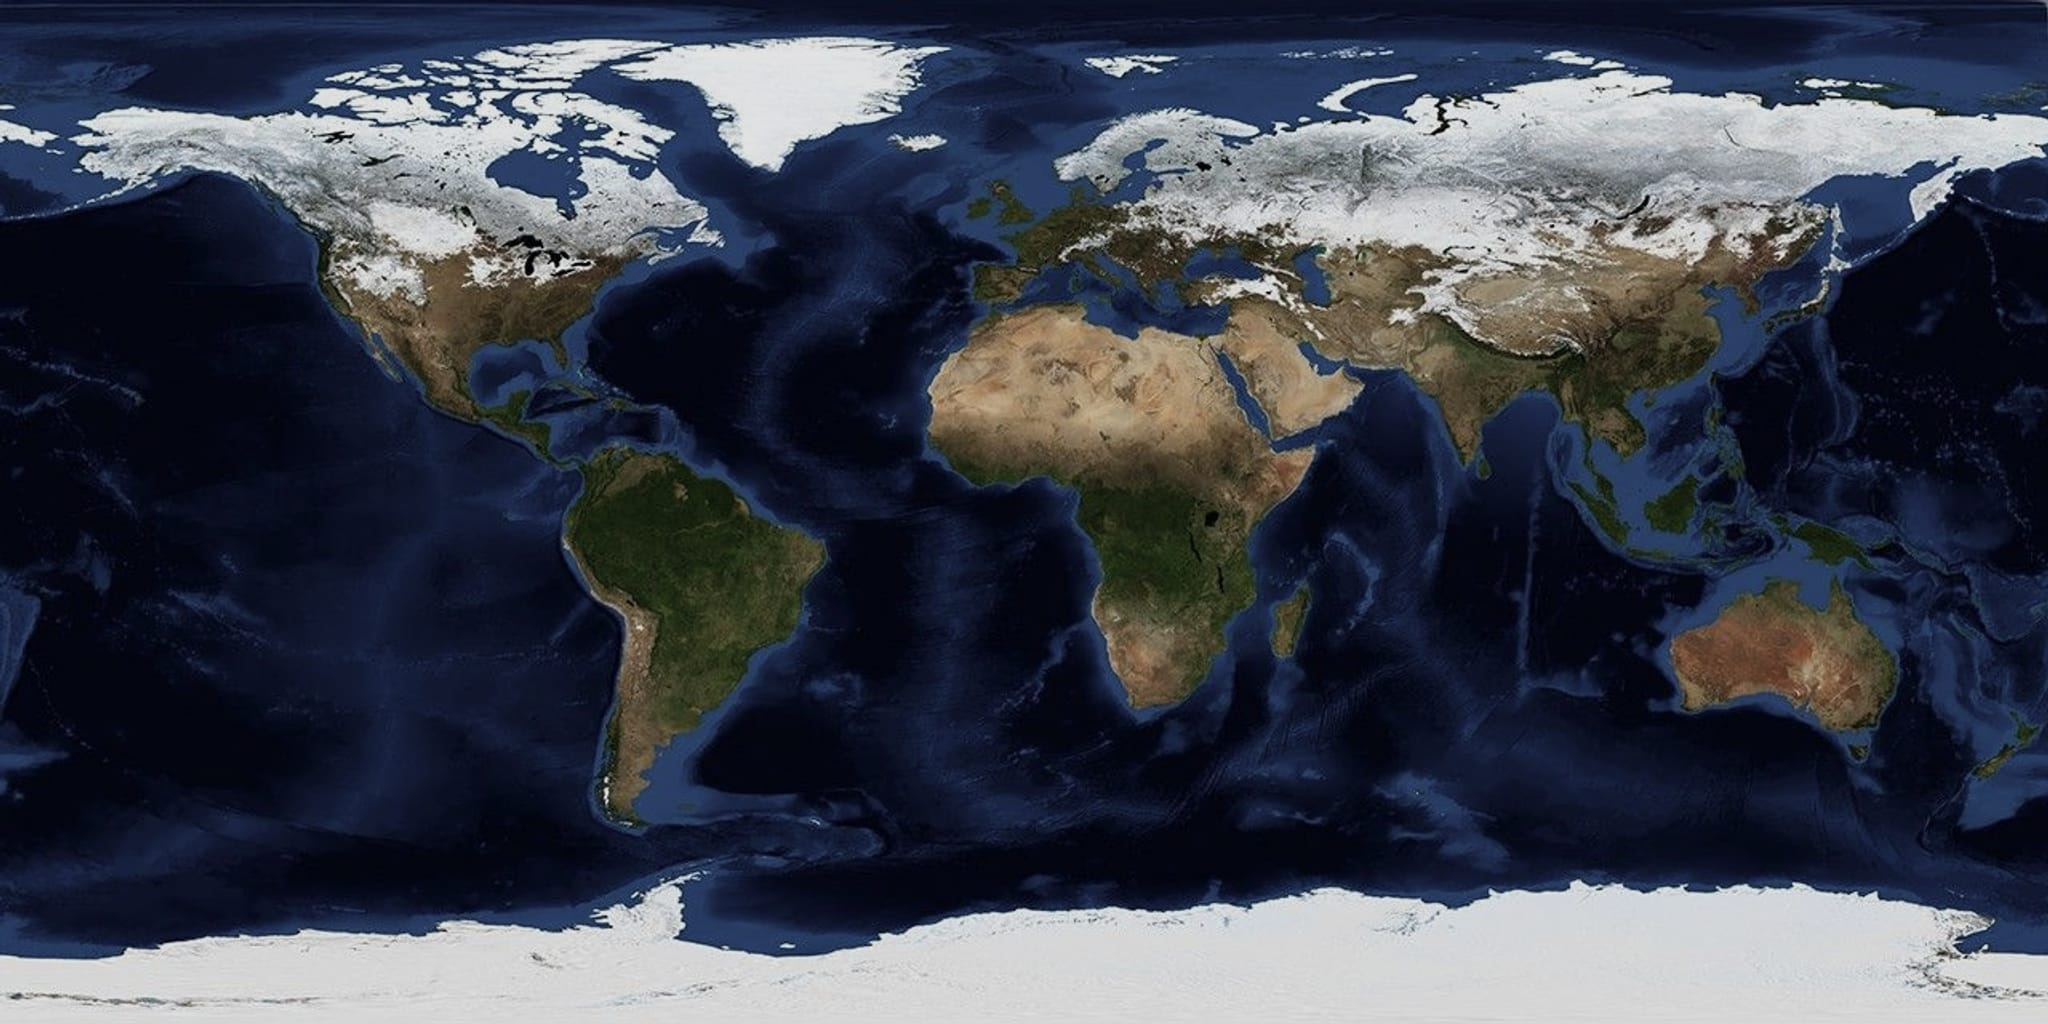
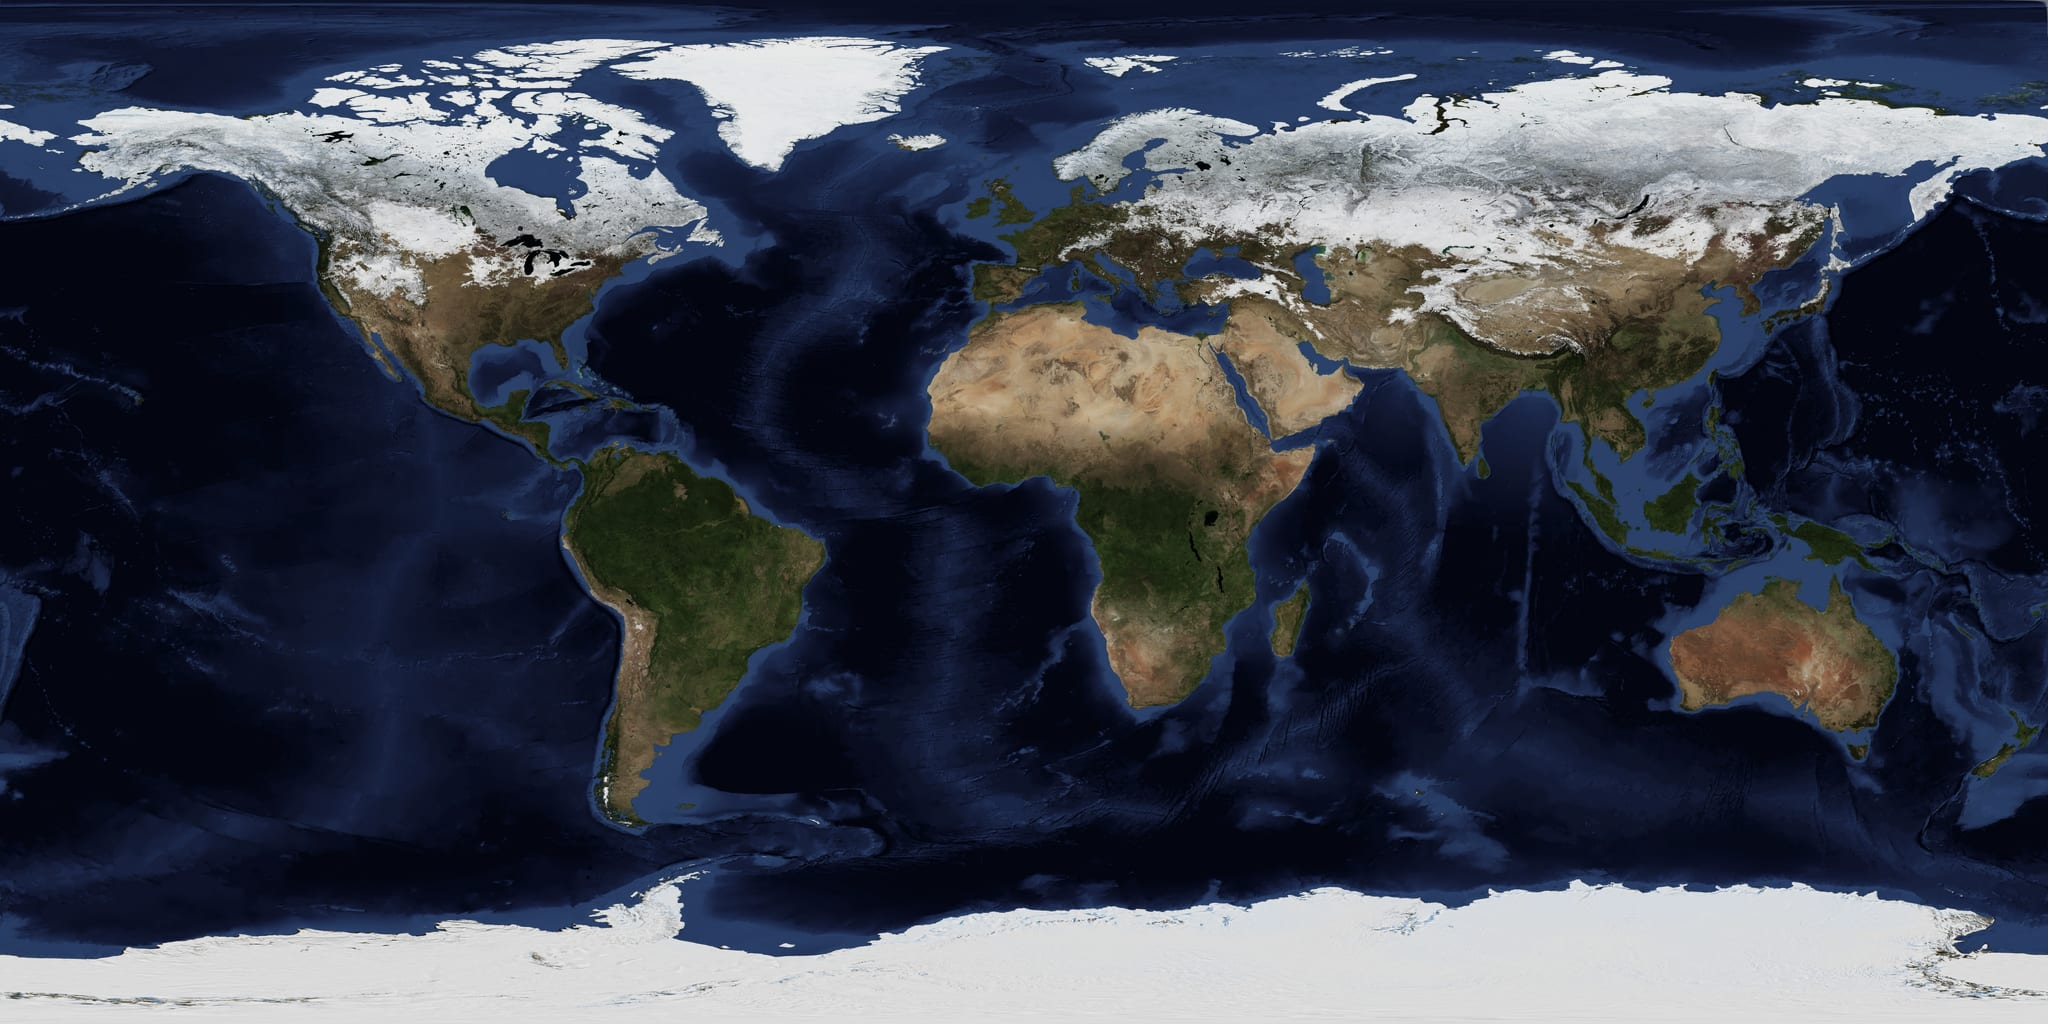
The dark weekend: pinned scroll clock from Friday's close to the bell over the real Earth (NASA Blue/Black Marble, true terminator from the Sun's position, New York marked), sourced captions, NVDAB consensus and sealed forecasts drawn to now

diff --git a/apps/web/src/sections/weekend/DarkWeekend.tsx b/apps/web/src/sections/weekend/DarkWeekend.tsx
@@ -1,3 +1,225 @@
+import { useGSAP } from "@gsap/react";
+import gsap from "gsap";
+import { ScrollTrigger } from "gsap/ScrollTrigger";
+import { AnimatePresence, motion, useReducedMotion } from "motion/react";
+import { Suspense, lazy, useEffect, useMemo, useRef, useState } from "react";
+import { lastRegularClose, nextRegularOpen, sessionAt } from "@ns/calendar";
+import { useNow } from "@/hooks/useNow";
+import { usd } from "@/lib/format";
+import { useHistory } from "@/lib/queries";
+import { ringBell, tick } from "@/lib/sound";
+
+gsap.registerPlugin(ScrollTrigger, useGSAP);
+
+const Earth = lazy(() => import("./Earth"));
+const LANE = { anchor: "#4A8CF0", echo: "#097C60", nfv: "#D66A98" } as const;
+const etClock = new Intl.DateTimeFormat("en-US", { timeZone: "America/New_York", weekday: "short", hour: "2-digit", minute: "2-digit", hour12: false });
+const utcClock = new Intl.DateTimeFormat("en-GB", { timeZone: "UTC", weekday: "short", hour: "2-digit", minute: "2-digit", hour12: false });
+
+/** Regular-session hours in the 168 h before the bell, from the real market calendar (holiday-aware). */
+function openHoursThisWeek(bell: number) {
+  let q = 0;
+  for (let t = bell - 168 * 3600_000; t < bell; t += 15 * 60_000) if (sessionAt(t) === "regular") q++;
+  return q / 4;
+}
+
+function Captions({ index, openHours, sealed, darkHours }: { index: number; openHours: number; sealed: number; darkHours: number }) {
+  const items = [
+    {
+      h: `The real market sets a price ${openHours} hours a week.`,
+      p: `Tokenized stocks trade all 168. From Friday's close to Monday's bell is ${darkHours} hours with no reference price at all.`,
+    },
+    {
+      h: "And that's when people trade.",
+      p: (
+        <>
+          62% of bStocks' July volume happened while US markets were dark (
+          <a className="underline underline-offset-4 hover:text-moon-0" href="https://cryptobriefing.com/binance-bstocks-volume-us-market-closures/" target="_blank" rel="noreferrer">
+            Crypto Briefing, Aug 26 2026
+          </a>
+          ).
+        </>
+      ),
+    },
+    {
+      h: "The oracles go quiet.",
+      p: (
+        <>
+          “These feeds do not publish updates, including heartbeat updates, while markets are closed.” (
+          <a className="underline underline-offset-4 hover:text-moon-0" href="https://docs.chain.link/data-feeds/tokenized-equity-feeds" target="_blank" rel="noreferrer">
+            Chainlink docs
+          </a>
+          ). Lenders see Friday's close all weekend.
+        </>
+      ),
+    },
+    {
+      h: "The night shift doesn't.",
+      p: `Every 30 minutes, three agents seal their forecast of Monday's open on BNB Chain. ${sealed ? `${sealed} forecasts are sealed for this bell so far.` : ""}`,
+    },
+  ];
+  const it = items[Math.min(index, items.length - 1)]!;
+  return (
+    <div className="relative min-h-[11rem]" aria-live="polite">
+      <AnimatePresence mode="wait">
+        <motion.div key={index} initial={{ opacity: 0, y: 14, filter: "blur(6px)" }} animate={{ opacity: 1, y: 0, filter: "blur(0px)" }} exit={{ opacity: 0, y: -10, filter: "blur(6px)" }} transition={{ duration: 0.45 }}>
+          <h3 className="text-[clamp(1.9rem,3.2vw,2.9rem)] font-[300] leading-[1.06]">{it.h}</h3>
+          <p className="mt-3 max-w-[46ch] text-[16px] leading-relaxed text-moon-2">{it.p}</p>
+        </motion.div>
+      </AnimatePresence>
+    </div>
+  );
+}
+
 export default function DarkWeekend() {
-  return null;
+  const root = useRef<HTMLElement>(null);
+  const reduce = Boolean(useReducedMotion());
+  const now = useNow();
+  const bell = useMemo(() => nextRegularOpen(now), [Math.floor(now / 60_000)]); // eslint-disable-line react-hooks/exhaustive-deps
+  const close = useMemo(() => lastRegularClose(bell - 60_000), [bell]);
+  const darkHours = Math.round(((bell - close) / 3600_000) * 10) / 10;
+  const openHours = useMemo(() => openHoursThisWeek(bell), [bell]);
+  const { data } = useHistory("NVDAB", Math.ceil((Date.now() - close) / 3600_000) + 2);
+  const pts = useMemo(() => (data ? data.points.filter((p) => p.anchorTime === data.nextAnchor) : []), [data]);
+  const commits = useMemo(() => (data ? data.commits.filter((c) => c.chain === "committed") : []), [data]);
+
+  const timeRef = useRef<number>(reduce ? Date.now() : close);
+  const clip = useRef<SVGRectElement>(null);
+  const [p, setP] = useState(reduce ? (Date.now() - close) / (bell - close) : 0);
+  const [mobile, setMobile] = useState(false);
+  const [inView, setInView] = useState(false);
+  useEffect(() => {
+    const m = window.matchMedia("(max-width: 767px)");
+    const on = () => setMobile(m.matches);
+    on();
+    m.addEventListener("change", on);
+    return () => m.removeEventListener("change", on);
+  }, []);
+
+  const caption = Math.min(3, Math.floor(p * 4.4));
+  const lastCaption = useRef(-1);
+  useEffect(() => {
+    if (lastCaption.current !== -1 && caption !== lastCaption.current) tick();
+    lastCaption.current = caption;
+  }, [caption]);
+  const rang = useRef(false);
+
+  useGSAP(
+    () => {
+      const mm = gsap.matchMedia();
+      mm.add("(prefers-reduced-motion: no-preference)", () => {
+        ScrollTrigger.create({
+          trigger: root.current,
+          start: "top top",
+          end: () => `+=${window.innerHeight * (window.innerWidth < 768 ? 2.6 : 3.6)}`,
+          pin: true,
+          scrub: 0.6,
+          onToggle: (s) => setInView(s.isActive),
+          onUpdate: (s) => {
+            const v = s.progress;
+            timeRef.current = close + v * (bell - close);
+            if (clip.current) clip.current.setAttribute("width", String(Math.max(0, v) * 1000));
+            setP(Math.round(v * 200) / 200);
+            if (v > 0.985 && !rang.current) {
+              rang.current = true;
+              ringBell();
+            }
+            if (v < 0.9) rang.current = false;
+          },
+        });
+      });
+      return () => mm.revert();
+    },
+    { scope: root, dependencies: [close, bell] },
+  );
+
+  const simT = reduce ? Date.now() : close + p * (bell - close);
+  const elapsed = (simT - close) / 3600_000;
+  const atBell = p > 0.985;
+
+  // Strip geometry (viewBox 1000 × 150): x = time from Friday's close to the bell.
+  const X = (t: number) => ((t - close) / (bell - close)) * 1000;
+  const vals = pts.flatMap((q) => [q.lower, q.upper]);
+  const lo = vals.length ? Math.min(...vals) : 0;
+  const hi = vals.length ? Math.max(...vals) : 1;
+  const Y = (v: number) => 8 + (1 - (v - lo) / (hi - lo || 1)) * 84;
+  const step = (sel: (q: (typeof pts)[number]) => number) => pts.map((q, i) => `${i ? "L" : "M"}${X(q.t).toFixed(1)},${Y(sel(q)).toFixed(1)}H${(i < pts.length - 1 ? X(pts[i + 1]!.t) : 1000).toFixed(1)}`).join("");
+  const band = pts.length ? `${step((q) => q.upper)}${[...pts].reverse().map((q, i, a) => `L${(i === 0 ? 1000 : X(a[i - 1]!.t)).toFixed(1)},${Y(q.lower).toFixed(1)}L${X(q.t).toFixed(1)},${Y(q.lower).toFixed(1)}`).join("")}Z` : "";
+  const cur = [...pts].reverse().find((q) => q.t <= simT) ?? pts[0];
+  // Real data stops at "now": the band beyond it is the latest forecast held forward, drawn faint and labelled.
+  const nowX = Math.min(1000, Math.max(0, X(Date.now())));
+
+  return (
+    <section ref={root} className="relative h-[100svh] overflow-hidden bg-night-0" aria-labelledby="weekend-title">
+      <div className="absolute inset-0 bg-[radial-gradient(60%_70%_at_70%_45%,rgb(29_40_67/0.6),transparent_70%)]" aria-hidden />
+      <div className={`absolute ${mobile ? "inset-x-0 top-16 h-[46svh]" : "inset-y-0 right-0 w-[64%]"}`} aria-hidden>
+        <Suspense fallback={null}>
+          <Earth timeRef={timeRef} active={reduce ? false : inView} mobile={mobile} />
+        </Suspense>
+      </div>
+      <div className="relative mx-auto flex h-full max-w-[1320px] flex-col justify-between px-4 pb-8 pt-24 sm:px-6 md:pt-28">
+        <div className={mobile ? "mt-[40svh]" : "max-w-[34rem]"}>
+          <p id="weekend-title" className="text-[14px] font-medium text-sodium/90">
+            The dark weekend
+          </p>
+          <div className="mt-3 flex items-baseline gap-4">
+            <time className="font-display text-[clamp(2.6rem,5vw,4.4rem)] font-[300] leading-none text-moon-0">{etClock.format(simT)} ET</time>
+          </div>
+          <p className="num mt-2 text-[13px] text-moon-3">
+            {utcClock.format(simT)} UTC, {elapsed.toFixed(1)} h of {darkHours} h without a reference price
+          </p>
+          <div className="mt-8">
+            <Captions index={reduce ? 3 : caption} openHours={openHours} sealed={commits.length} darkHours={darkHours} />
+          </div>
+        </div>
+
+        <div className="relative mt-6">
+          <div className="mb-2 flex flex-wrap items-end justify-between gap-3 text-[12.5px] text-moon-3">
+            <span>NVDAB, consensus for Monday's open and each agent's sealed forecasts</span>
+            {cur && (
+              <span className="num text-moon-1">
+                {usd(cur.fairValue)} <span className="text-moon-3">band</span> {usd(cur.lower)} – {usd(cur.upper)}
+              </span>
+            )}
+          </div>
+          <svg viewBox="0 0 1000 150" preserveAspectRatio="none" className="h-[132px] w-full overflow-visible" role="img" aria-label={`NVDAB consensus for the bell over ${pts.length} rounds, ${commits.length} forecasts sealed on BNB Chain`}>
+            <defs>
+              <clipPath id="ns-week-clip">
+                <rect ref={clip} x="0" y="-10" width={reduce ? 1000 : 0} height="170" />
+              </clipPath>
+            </defs>
+            <rect x="0" y="0" width="1000" height="96" fill="rgb(160 180 220 / 0.04)" />
+            <g clipPath="url(#ns-week-clip)">
+              <clipPath id="ns-week-real">
+                <rect x="0" y="-10" width={nowX} height="170" />
+              </clipPath>
+              {band && <path d={band} fill="rgb(255 178 63 / 0.06)" />}
+              {band && <path d={band} fill="rgb(255 178 63 / 0.16)" clipPath="url(#ns-week-real)" />}
+              {pts.length > 0 && <path d={step((q) => q.fairValue)} fill="none" stroke="#FFB23F" strokeOpacity="0.35" strokeDasharray="3 4" strokeWidth="1.5" vectorEffect="non-scaling-stroke" />}
+              {pts.length > 0 && <path d={step((q) => q.fairValue)} fill="none" stroke="#FFB23F" strokeWidth="2" vectorEffect="non-scaling-stroke" clipPath="url(#ns-week-real)" />}
+              <line x1={nowX} x2={nowX} y1="0" y2="100" stroke="#F4F1E8" strokeOpacity="0.7" strokeWidth="1" vectorEffect="non-scaling-stroke" />
+              <text x={nowX + 6} y="12" fontSize="10.5" fill="#E4E1D6">
+                now
+              </text>
+              {(["anchor", "echo", "nfv"] as const).map((f, li) =>
+                commits
+                  .filter((c) => c.forecaster === f)
+                  .map((c) => <rect key={`${f}-${c.round}`} x={X(c.t) - 1} y={108 + li * 13} width="2.2" height="9" fill={LANE[f]} />),
+              )}
+            </g>
+            {(["anchor", "echo", "nfv"] as const).map((f, li) => (
+              <text key={f} x="-6" y={116 + li * 13} textAnchor="end" fontSize="10" fill="#7C859D">
+                {f}
+              </text>
+            ))}
+            <line x1="1000" x2="1000" y1="0" y2="150" stroke="#FFB23F" strokeWidth="1.5" strokeDasharray={atBell ? undefined : "4 4"} vectorEffect="non-scaling-stroke" />
+          </svg>
+          <div className="mt-1 flex justify-between text-[12px] text-moon-3">
+            <span>Friday close, {etClock.format(close)} ET</span>
+            <span className={atBell ? "text-sodium" : ""}>The bell, {etClock.format(bell)} ET</span>
+          </div>
+        </div>
+      </div>
+    </section>
+  );
 }

diff --git a/apps/web/src/sections/weekend/Earth.tsx b/apps/web/src/sections/weekend/Earth.tsx
@@ -1,0 +1,120 @@
+/**
+ * The Earth with its true day/night terminator for any instant: NASA Blue Marble (day) and Black Marble
+ * (night lights, tinted sodium) blended by the real subsolar point (astronomy-engine). New York is marked;
+ * it glows amber while it's dark. The instant comes from a ref the scroll chapter writes (no re-renders).
+ */
+import { Canvas, useFrame, useLoader } from "@react-three/fiber";
+import * as Astronomy from "astronomy-engine";
+import { type MutableRefObject, Suspense, useMemo, useRef } from "react";
+import * as THREE from "three";
+
+const DEG = Math.PI / 180;
+const NY = { lat: 40.7128, lon: -74.006 };
+
+/** Direction for (lat, lon) in three.js SphereGeometry's UV frame (equirectangular, lon −180 at −x). */
+export function latLonToVec(lat: number, lon: number, r = 1): THREE.Vector3 {
+  const phi = ((lon + 180) / 360) * Math.PI * 2;
+  const c = Math.cos(lat * DEG);
+  return new THREE.Vector3(-Math.cos(phi) * c * r, Math.sin(lat * DEG) * r, Math.sin(phi) * c * r);
+}
+
+/** Subsolar point at `ms`: declination and the longitude where the Sun is overhead. */
+export function subsolar(ms: number): { lat: number; lon: number } {
+  const date = new Date(ms);
+  const eq = Astronomy.Equator(Astronomy.Body.Sun, date, new Astronomy.Observer(0, 0, 0), true, true);
+  const gast = Astronomy.SiderealTime(date);
+  let lon = (eq.ra - gast) * 15;
+  lon = ((((lon + 180) % 360) + 360) % 360) - 180;
+  return { lat: eq.dec, lon };
+}
+
+export const isDarkAt = (lat: number, lon: number, ms: number) => latLonToVec(lat, lon).dot(latLonToVec(subsolar(ms).lat, subsolar(ms).lon)) < -0.02;
+
+const vert = /* glsl */ `
+  varying vec2 vUv; varying vec3 vN; varying vec3 vView;
+  void main(){
+    vUv = uv;
+    vN = normalize(mat3(modelMatrix) * normal);
+    vec4 wp = modelMatrix * vec4(position, 1.0);
+    vView = normalize(cameraPosition - wp.xyz);
+    gl_Position = projectionMatrix * viewMatrix * wp;
+  }`;
+const frag = /* glsl */ `
+  uniform sampler2D uDay; uniform sampler2D uNight; uniform vec3 uSun;
+  varying vec2 vUv; varying vec3 vN; varying vec3 vView;
+  void main(){
+    float d = dot(normalize(vN), normalize(uSun));
+    float lit = smoothstep(-0.06, 0.14, d);
+    vec3 day = texture2D(uDay, vUv).rgb * 0.92;
+    vec3 night = texture2D(uNight, vUv).rgb;
+    float lights = pow(clamp(dot(night, vec3(0.33)), 0.0, 1.0), 1.35);
+    vec3 city = vec3(1.0, 0.68, 0.30) * lights * 2.2 + vec3(0.016, 0.024, 0.05);
+    vec3 col = mix(city, day, lit);
+    col += vec3(1.0, 0.5, 0.2) * 0.10 * exp(-pow(d * 8.0, 2.0));        // dusk band along the terminator
+    float rim = pow(1.0 - max(dot(normalize(vN), vView), 0.0), 3.0);
+    col += vec3(0.42, 0.55, 0.95) * rim * (0.25 + 0.55 * lit);           // thin atmosphere at the limb
+    gl_FragColor = vec4(col, 1.0);
+  }`;
+
+function Globe({ timeRef, mobile }: { timeRef: MutableRefObject<number>; mobile: boolean }) {
+  const [day, night] = useLoader(THREE.TextureLoader, [mobile ? "/tex/earth-day-2k.jpg" : "/tex/earth-day-4k.jpg", "/tex/earth-night-2k.jpg"]);
+  day.anisotropy = 8;
+  day.colorSpace = THREE.SRGBColorSpace;
+  night.colorSpace = THREE.SRGBColorSpace;
+  const mat = useRef<THREE.ShaderMaterial>(null);
+  const marker = useRef<THREE.Mesh>(null);
+  const ring = useRef<THREE.Mesh>(null);
+  const ny = useMemo(() => latLonToVec(NY.lat, NY.lon, 1.006), []);
+  const uniforms = useMemo(() => ({ uDay: { value: day }, uNight: { value: night }, uSun: { value: new THREE.Vector3(1, 0, 0) } }), [day, night]);
+
+  useFrame((st) => {
+    const s = subsolar(timeRef.current);
+    const sun = latLonToVec(s.lat, s.lon);
+    if (mat.current) mat.current.uniforms.uSun!.value.copy(sun);
+    const dark = ny.clone().normalize().dot(sun) < -0.02;
+    if (marker.current) (marker.current.material as THREE.MeshBasicMaterial).color.set(dark ? "#FFB23F" : "#F4F1E8");
+    if (ring.current) {
+      const k = (st.clock.elapsedTime % 2.2) / 2.2;
+      ring.current.scale.setScalar(1 + k * 3.2);
+      (ring.current.material as THREE.MeshBasicMaterial).opacity = dark ? 0.55 * (1 - k) : 0;
+      ring.current.lookAt(ny.clone().multiplyScalar(3));
+    }
+  });
+
+  return (
+    <group rotation={[0, 0, 0]}>
+      <mesh>
+        <sphereGeometry args={[1, mobile ? 64 : 128, mobile ? 48 : 96]} />
+        <shaderMaterial ref={mat} vertexShader={vert} fragmentShader={frag} uniforms={uniforms} />
+      </mesh>
+      <mesh ref={marker} position={ny}>
+        <sphereGeometry args={[0.0085, 16, 12]} />
+        <meshBasicMaterial color="#FFB23F" />
+      </mesh>
+      <mesh ref={ring} position={ny}>
+        <ringGeometry args={[0.016, 0.022, 40]} />
+        <meshBasicMaterial color="#FFB23F" transparent opacity={0.5} side={THREE.DoubleSide} depthWrite={false} />
+      </mesh>
+    </group>
+  );
+}
+
+function Camera({ mobile }: { mobile: boolean }) {
+  useFrame(({ camera }) => {
+    const p = latLonToVec(28, -80, mobile ? 3.6 : 3.25);
+    camera.position.copy(p);
+    camera.lookAt(mobile ? 0 : -0.42, mobile ? 0.1 : 0.06, 0);
+  });
+  return null;
+}
+
+export default function Earth({ timeRef, active, mobile }: { timeRef: MutableRefObject<number>; active: boolean; mobile: boolean }) {
+  return (
+    <Canvas dpr={[1, 1.5]} frameloop={active ? "always" : "never"} gl={{ antialias: true, alpha: true, powerPreference: "high-performance" }} camera={{ fov: 34, near: 0.1, far: 50 }} aria-hidden>
+      <Camera mobile={mobile} />
+      <Suspense fallback={null}>
+        <Globe timeRef={timeRef} mobile={mobile} />
+      </Suspense>
+    </Canvas>
+  );
+}
